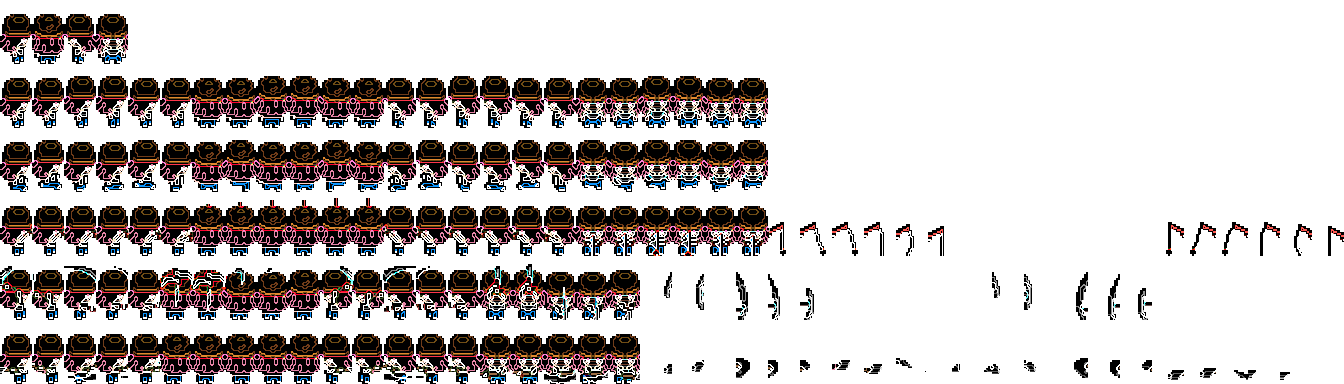
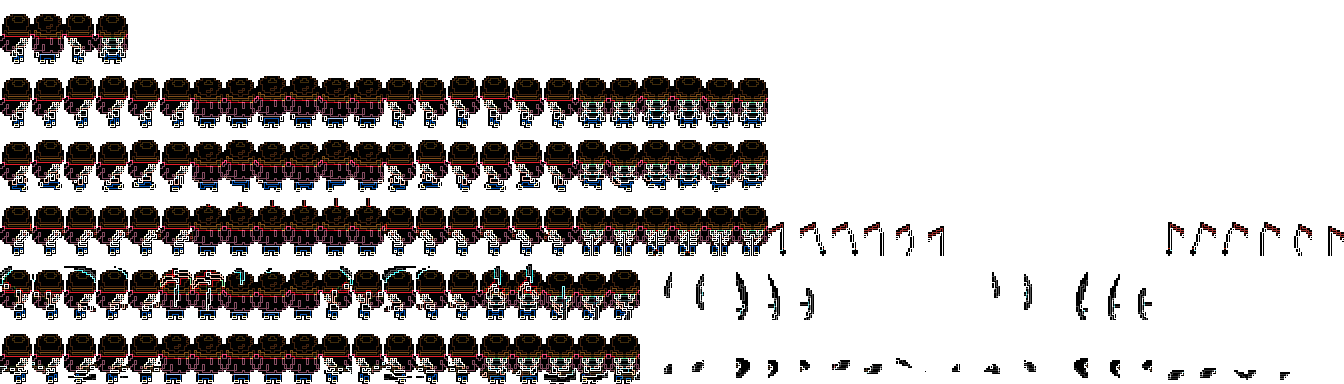
added item images 798-833 and become based quest id 25

diff --git a/src/quests/quests.ts b/src/quests/quests.ts
@@ -5,6 +5,25 @@ const PLACEHOLDER_IMAGE =
 
 export const quests: Quest[] = [
   {
+    questId: 25,
+    id: "become_based",
+    name: "Become Based",
+    image:
+      "https://raw.githubusercontent.com/alma-labs/tokiemon-lists/refs/heads/main/assets/quests/become-based.png",
+    type: "Story",
+    questPoints: 1,
+    description: "Craft a Base Shirt.",
+    requirements: ["A Base Shirt"],
+    rewards: [
+      { itemId: "803", amount: 1 }, // 1 Base Blue Boy Skin
+      { itemId: "808", amount: 1 }, // 1 Base Blue Girl Skin
+    ],
+    check: "Player has crafted a Base Shirt",
+    verified: false,
+    isActive: false,
+    hint: "Go to the Crafting Workshop and craft a Base Shirt!",
+  },
+  {
     questId: 0,
     id: "first_tokiemon",
     name: "My First Tokiemon",
